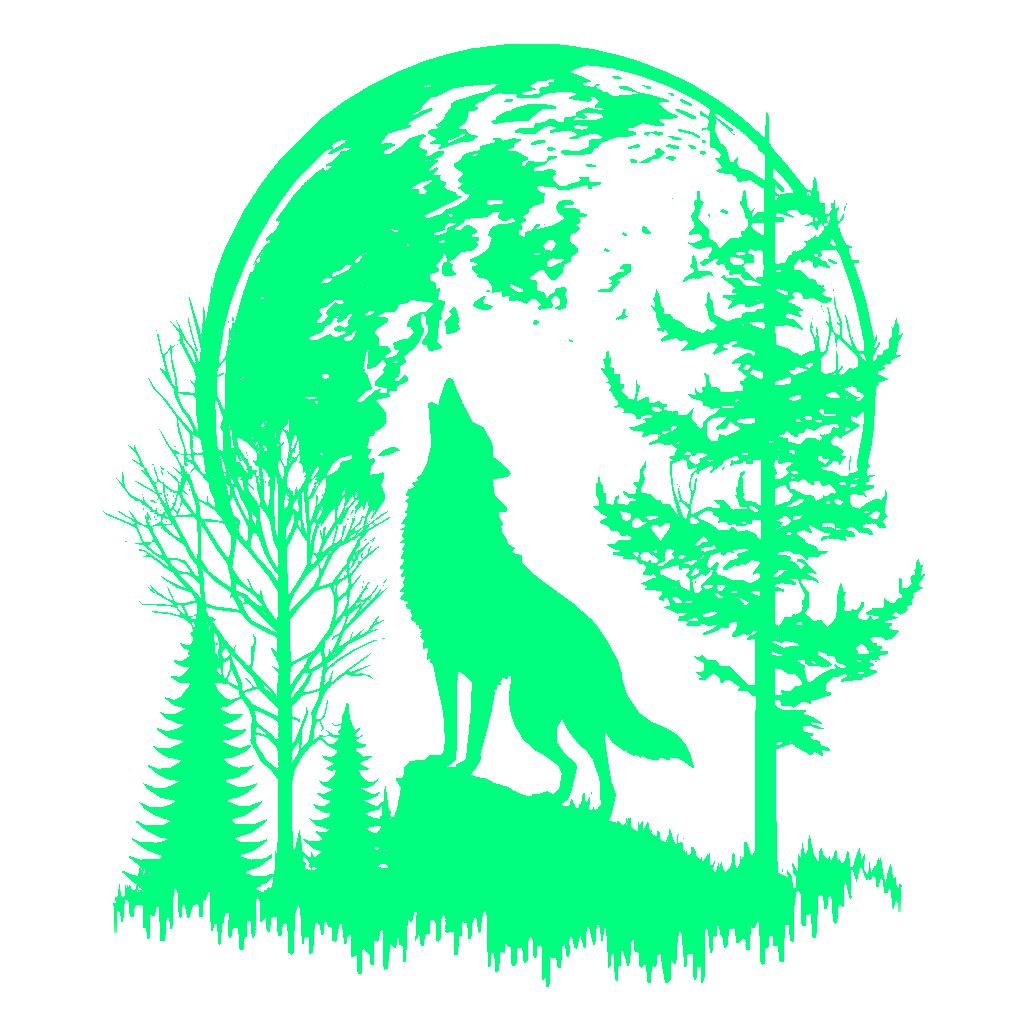
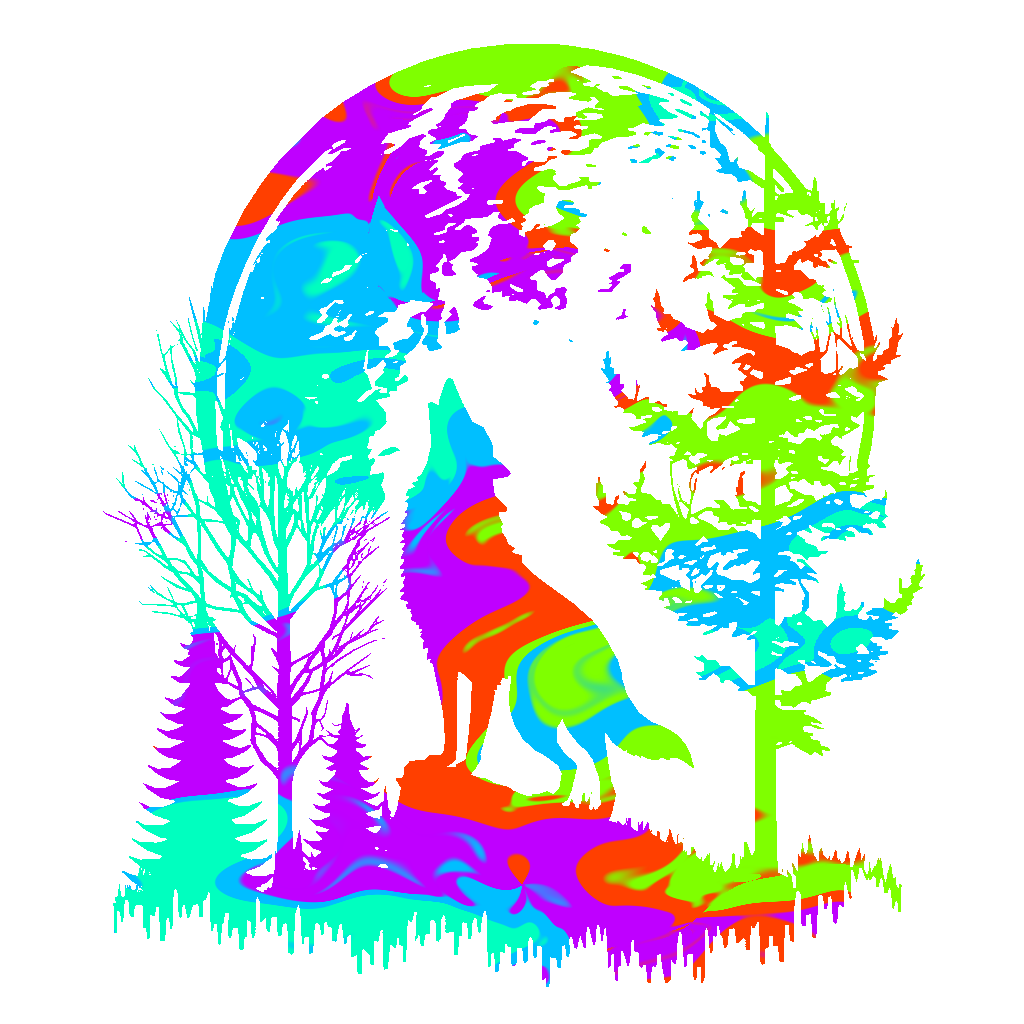
working print of the 6 colors

diff --git a/BP-work/marble_render.py b/BP-work/marble_render.py
@@ -34,10 +34,7 @@ def get_random_silhouette():
     selected_file = random.choice(silhouette_files)
     selected_path = os.path.join(silhouettes_dir, selected_file)
     
-    try:
-        print(f"🎲 Randomly selected silhouette: {selected_file}")
-    except UnicodeEncodeError:
-        print(f"[DICE] Randomly selected silhouette: {selected_file}")
+    print(f"🎲 Randomly selected silhouette: {selected_file}")
     return selected_path
 
 DEFAULT_INPUT = get_random_silhouette()
@@ -60,7 +57,7 @@ def parse_colors(colors_path: str) -> Tuple[List[Tuple[float, float, float]], Li
     fallback_weights = [0.25, 0.20, 0.20, 0.15, 0.10, 0.10]
     
     # Standard 6-color percentage breakdown
-    standard_percentages = [25, 20, 20, 15, 10, 10]
+    standard_percentages = [17, 17, 17, 17, 17, 15]
 
     if not colors_path or not os.path.exists(colors_path):
         return fallback_colors[:6], [w/100.0 for w in standard_percentages]
@@ -105,9 +102,10 @@ def parse_colors(colors_path: str) -> Tuple[List[Tuple[float, float, float]], Li
     except Exception:
         return fallback_colors[:6], [w/100.0 for w in standard_percentages]
 
-    # If we have colors, randomly select 6 and apply standard percentages
+    # If we have colors, pick 6 and apply standard percentages
     if all_colors and len(all_colors) >= 6:
-        selected_colors = random.sample(all_colors, 6)
+        # If exactly 6, preserve the provided order; otherwise, randomly choose 6
+        selected_colors = all_colors if len(all_colors) == 6 else random.sample(all_colors, 6)
         selected_weights = [w/100.0 for w in standard_percentages]
         
         # Show which colors were selected
@@ -117,12 +115,8 @@ def parse_colors(colors_path: str) -> Tuple[List[Tuple[float, float, float]], Li
                 int(color[0] * 255), int(color[1] * 255), int(color[2] * 255)
             )
             color_names.append(hex_color)
-        try:
-            print(f"🎨 Selected colors: {', '.join(color_names)}")
-            print(f"📊 Percentages: {standard_percentages}")
-        except UnicodeEncodeError:
-            print(f"[ART] Selected colors: {', '.join(color_names)}")
-            print(f"[CHART] Percentages: {standard_percentages}")
+        print(f"🎨 Selected colors: {', '.join(color_names)}")
+        print(f"📊 Percentages: {standard_percentages}")
         
         return selected_colors, selected_weights
     elif all_colors:
@@ -382,6 +376,10 @@ def main():
     p.add_argument("--comb-amp", type=float, default=0.06, help="Comb (rake) warp amplitude (0..0.2)")
     p.add_argument("--comb-freq", type=float, default=9.0, help="Comb (rake) warp frequency (bands along vertical)")
     p.add_argument("--flow-steps", type=int, default=2, help="Iterative flow steps to elongate streaks (0..4)")
+    # Utility: generate an all-black PNG wallpaper and exit
+    p.add_argument("--black-wallpaper", action="store_true", help="Generate a solid black PNG (wallpaper) and exit")
+    p.add_argument("--wallpaper-width", type=int, default=None, help="Width for black wallpaper (defaults to input image width or 1920)")
+    p.add_argument("--wallpaper-height", type=int, default=None, help="Height for black wallpaper (defaults to input image height or 1080)")
     # Reveal animation options - PREVIEW IS NOW ON BY DEFAULT
     p.add_argument("--no-preview", action="store_true", help="Disable the live center-out reveal animation")
     p.add_argument("--seconds", type=float, default=6.0, help="Duration of the reveal animation")
@@ -398,22 +396,42 @@ def main():
             silhouette_files = [f for f in os.listdir(silhouettes_dir) 
                                if f.lower().endswith(('.png', '.jpg', '.jpeg'))]
             if silhouette_files:
-                try:
-                    print("🎨 Available silhouettes:")
-                except UnicodeEncodeError:
-                    print("[ART] Available silhouettes:")
+                print("🎨 Available silhouettes:")
                 for i, filename in enumerate(sorted(silhouette_files), 1):
                     print(f"  {i}. {filename}")
             else:
-                try:
-                    print("❌ No silhouettes found in silhouettes/ folder")
-                except UnicodeEncodeError:
-                    print("[X] No silhouettes found in silhouettes/ folder")
+                print("❌ No silhouettes found in silhouettes/ folder")
         else:
+            print("❌ silhouettes/ folder not found")
+        return
+
+    # Fast path: solid black wallpaper
+    if getattr(args, "black_wallpaper", False):
+        # Determine size order of precedence: explicit width/height > input image size > default 1920x1080
+        W = args.wallpaper_width
+        H = args.wallpaper_height
+        if W is None or H is None:
             try:
-                print("❌ silhouettes/ folder not found")
-            except UnicodeEncodeError:
-                print("[X] silhouettes/ folder not found")
+                if args.input and os.path.exists(args.input):
+                    with Image.open(args.input) as _im:
+                        iw, ih = _im.size
+                        W = W or iw
+                        H = H or ih
+            except Exception:
+                pass
+        if W is None: W = 1920
+        if H is None: H = 1080
+        W = max(1, int(W))
+        H = max(1, int(H))
+
+        # Pick default output name if user didn't change it
+        out_path = args.output
+        default_black = os.path.join(os.path.dirname(__file__), "black_wallpaper.png")
+        if out_path == DEFAULT_OUTPUT:
+            out_path = default_black
+
+        Image.new("RGB", (W, H), (0, 0, 0)).save(out_path)
+        print(f"Saved black wallpaper: {out_path} ({W}x{H})")
         return
 
     # Use random silhouette if --random flag is used

diff --git a/BP-work/arduino_to_marble.py b/BP-work/arduino_to_marble.py
@@ -7,12 +7,13 @@ from typing import List, Tuple, Optional
 
 import serial
 import serial.tools.list_ports as list_ports
-from PIL import Image
 
-# This script listens to an Arduino over serial for six color selections,
-# writes colors.json, and optionally invokes marble_render.py
-# Expected Arduino output: six lines, each a decimal integer like 16711680 (0xFF0000)
-# in the order selected. End when six values are printed.
+# Bridge script: read 6 colors from Arduino over serial, write colors.json,
+# optionally wait for a tilt trigger, then run marble_render.py.
+# Expected Arduino output:
+#   - Six lines containing color integers (decimal like 16711680 or hex like 0xFF0000)
+#     in the exact order selected
+#   - Later, a line containing the tilt token (default: "TILT") to trigger rendering
 
 DEFAULT_COLORS_JSON = os.path.join(os.path.dirname(__file__), "colors.json")
 MARBLER = os.path.join(os.path.dirname(__file__), "marble_render.py")
@@ -54,17 +55,18 @@ def list_available_ports() -> List[Tuple[str, str]]:
     return [(p.device, p.description or "") for p in list_ports.comports()]
 
 
-def read_six_colors(port: str, baud: int = 115200, timeout: float = 120.0) -> List[Tuple[int, int, int]]:
+def read_six_colors(port: str, baud: int = 115200, timeout: Optional[float] = None) -> List[Tuple[int, int, int]]:
     print(f"Opening serial port {port} @ {baud}...")
     ser = serial.Serial(port, baudrate=baud, timeout=1.0)
     try:
         colors: List[Tuple[int, int, int]] = []
         last_activity = time.time()
+        infinite = (timeout is None) or (timeout <= 0)
         print("Waiting for six color lines from Arduino (decimal like 16711680 or hex like 0xFF0000)...")
         while len(colors) < 6:
             line = ser.readline().decode(errors="ignore").strip()
             if not line:
-                if time.time() - last_activity > timeout:
+                if (not infinite) and (time.time() - last_activity > float(timeout)):
                     raise TimeoutError("Timed out waiting for color lines from Arduino")
                 continue
             # Accept either hex (0xRRGGBB) or decimal
@@ -84,6 +86,31 @@ def read_six_colors(port: str, baud: int = 115200, timeout: float = 120.0) -> Li
         ser.close()
 
 
+def wait_for_token(port: str, token: str = "TILT", baud: int = 115200, timeout: Optional[float] = None) -> bool:
+    """Block until a line containing the token is received (case-insensitive) or timeout occurs."""
+    if timeout is None or timeout <= 0:
+        print(f"Waiting for trigger token '{token}' on {port} (no timeout)...")
+    else:
+        print(f"Waiting for trigger token '{token}' on {port} (timeout {int(timeout)}s)...")
+    token_lc = token.lower()
+    ser = serial.Serial(port, baudrate=baud, timeout=1.0)
+    try:
+        start = time.time()
+        while True:
+            line = ser.readline().decode(errors="ignore").strip()
+            if line:
+                # Print minimal feedback, but avoid flooding the console
+                print(f"[serial] {line}")
+                if token_lc in line.lower():
+                    print("Trigger received.")
+                    return True
+            if timeout is not None and timeout > 0 and (time.time() - start > timeout):
+                print("Timed out waiting for trigger.")
+                return False
+    finally:
+        ser.close()
+
+
 def write_colors_json(colors: List[Tuple[int, int, int]], path: str = DEFAULT_COLORS_JSON) -> None:
     # Match marble_render.py expectations: list of items each with "color"
     payload = [{"color": "#{:02x}{:02x}{:02x}".format(r, g, b)} for (r, g, b) in colors]
@@ -99,6 +126,10 @@ def main():
     p.add_argument("--list-ports", action="store_true", help="List available serial ports and exit")
     p.add_argument("--colors-json", default=DEFAULT_COLORS_JSON, help="Path to write colors.json")
     p.add_argument("--run", action="store_true", help="Run marble_render.py after writing colors.json")
+    p.add_argument("--wait-for-tilt", action="store_true", help="After reading 6 colors, wait for a tilt trigger before running")
+    p.add_argument("--tilt-token", default="TILT", help="Serial line token that signals the tilt trigger")
+    p.add_argument("--tilt-timeout", type=float, default=0.0, help="Seconds to wait for tilt trigger; 0 means no timeout")
+    p.add_argument("--color-timeout", type=float, default=0.0, help="Seconds to wait for color lines; 0 means no timeout")
     p.add_argument("--input", default=None, help="Silhouette image path (if running marbler)")
     p.add_argument("--output", default=DEFAULT_OUTPUT, help="Output PNG path (if running marbler)")
     args = p.parse_args()
@@ -118,10 +149,16 @@ def main():
         print("Could not auto-detect a serial port. Use --list-ports to see options and pass --port COMx.")
         return
 
-    colors = read_six_colors(port, baud=args.baud)
+    colors = read_six_colors(port, baud=args.baud, timeout=(None if args.color_timeout <= 0 else args.color_timeout))
     write_colors_json(colors, args.colors_json)
 
     if args.run:
+        # Optionally wait for tilt trigger before running
+        if args.wait_for_tilt:
+            ok = wait_for_token(port, token=args.tilt_token, baud=args.baud, timeout=(None if args.tilt_timeout <= 0 else args.tilt_timeout))
+            if not ok:
+                print("Did not receive tilt trigger; exiting without rendering.")
+                return
         # Build command to run marbler with preview (default settings)
         import subprocess
         cmd = [sys.executable, MARBLER]
